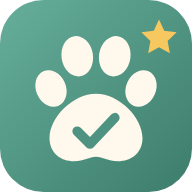
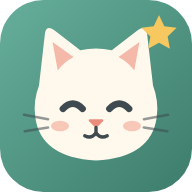
Ikon diganti kucing, juga di layar pembuka dan halaman awal
Claude-Session: https://claude.ai/code/session_01U9668EE9qxDSEKTLf1ihvc

Changed region(s): [[0.125, 0.0625, 0.9375, 0.7812], [0.2812, 0.7812, 0.7188, 0.8438]]

diff --git a/index.html b/index.html
@@ -5,7 +5,7 @@
 <meta name="viewport" content="width=device-width,initial-scale=1,viewport-fit=cover">
 <meta name="theme-color" content="#EEF4F1">
 <script>try{var t=localStorage.getItem('pmkTheme')||'auto';if(t==='dark'||(t==='auto'&&matchMedia('(prefers-color-scheme: dark)').matches))document.documentElement.dataset.theme='dark';}catch(e){}</script>
-<title>Petualangan Malika dan Keandra 🐾</title>
+<title>Petualangan Malika dan Keandra 🐱</title>
 <link rel="icon" type="image/svg+xml" href="favicon.svg">
 <link rel="icon" type="image/png" sizes="32x32" href="favicon-32.png">
 <link rel="apple-touch-icon" sizes="180x180" href="apple-touch-icon.png">
@@ -116,10 +116,10 @@ html[data-theme="dark"] .btn-primary,html[data-theme="dark"] .tab.active,html[da
 </head>
 <body>
 
-<div id="screen-loading" class="screen active"><div class="spinner">🐶</div><p class="sub">Menyiapkan petualangan...</p></div>
+<div id="screen-loading" class="screen active"><img class="hero-icon" src="favicon.svg" alt="" width="96" height="96" style="border-radius:24px"><p class="sub">Menyiapkan petualangan...</p></div>
 
 <div id="screen-onboarding" class="screen">
-  <div class="hero"><div class="hero-icon">🐾</div><h1>Petualangan Malika dan Keandra</h1><p class="sub">Jadwal harian, tugas, poin, dan hadiah</p></div>
+  <div class="hero"><img class="hero-icon" src="favicon.svg" alt="" width="110" height="110" style="border-radius:28px;box-shadow:0 8px 20px rgba(61,124,107,.25)"><h1>Petualangan Malika dan Keandra</h1><p class="sub">Jadwal harian, tugas, poin, dan hadiah</p></div>
   <button class="btn btn-primary" data-action="go-create">🏠 Buat Keluarga Baru</button>
   <button class="btn btn-secondary" data-action="go-join">🔗 Gabung Keluarga</button>
 </div>
@@ -148,7 +148,7 @@ html[data-theme="dark"] .btn-primary,html[data-theme="dark"] .tab.active,html[da
 
 <div id="screen-landing" class="screen">
   <button class="ib sf theme-fab" data-action="toggle-theme" title="Ganti tema">🌙</button>
-  <div class="hero"><div class="hero-icon">🐾</div><h1>Petualangan Malika dan Keandra</h1><p class="sub" id="land-fam"></p><p class="sub" style="font-size:11px;opacity:.7">v2.4</p></div>
+  <div class="hero"><img class="hero-icon" src="favicon.svg" alt="" width="110" height="110" style="border-radius:28px;box-shadow:0 8px 20px rgba(61,124,107,.25)"><h1>Petualangan Malika dan Keandra</h1><p class="sub" id="land-fam"></p><p class="sub" style="font-size:11px;opacity:.7">v2.4</p></div>
   <h2 style="text-align:center;margin:8px 0 16px">Kamu siapa hari ini?</h2>
   <button class="btn btn-primary" style="padding:24px" data-action="land-parent">👨👩👧 Aku Orang Tua</button>
   <button class="btn btn-secondary" style="padding:24px" data-action="land-child">🧒 Aku Anak</button>
@@ -242,7 +242,7 @@ function initBack(){
 }
 function askExit(){
   exitAsk=true;
-  $('#modal-content').innerHTML=`<div style="text-align:center"><div style="font-size:50px">🐾</div><h3>Yakin mau keluar?</h3><p class="sub">Tekan tombol <b>kembali</b> sekali lagi untuk keluar dari aplikasi.</p></div>
+  $('#modal-content').innerHTML=`<div style="text-align:center"><img src="favicon.svg" alt="" width="64" height="64" style="border-radius:16px"><h3>Yakin mau keluar?</h3><p class="sub">Tekan tombol <b>kembali</b> sekali lagi untuk keluar dari aplikasi.</p></div>
   <button class="btn btn-primary" style="margin-top:16px" data-action="close-modal">👍 Tetap di sini</button>
   <button class="btn btn-ghost" data-action="exit-app">Keluar</button>`;
   $('#modal-root').classList.add('active');

diff --git a/README.md b/README.md
@@ -58,4 +58,4 @@ const firebaseConfig = {
 - **Catatan Rules:** jika Firestore Rules melarang HP anak mengubah dokumen `children`, anak tidak bisa memilih target sendiri. App akan menampilkan pesan agar orang tua yang memasangnya.
 
 ## Ikon aplikasi
-- `favicon.svg`, `favicon-32.png` (tab browser), `apple-touch-icon.png` (ikon saat "Tambahkan ke Layar Utama"), `icon-192.png` & `icon-512.png` (cadangan untuk PWA). Semua file ikon harus ada di folder yang sama dengan `index.html`.
+- Ikon kucing tersenyum dengan bintang poin. `favicon.svg` juga dipakai di layar pembuka, halaman awal, dan jendela keluar. `favicon-32.png` (tab browser), `apple-touch-icon.png` (ikon saat "Tambahkan ke Layar Utama"), `icon-192.png` & `icon-512.png` (cadangan untuk PWA). Semua file ikon harus ada di folder yang sama dengan `index.html`.
